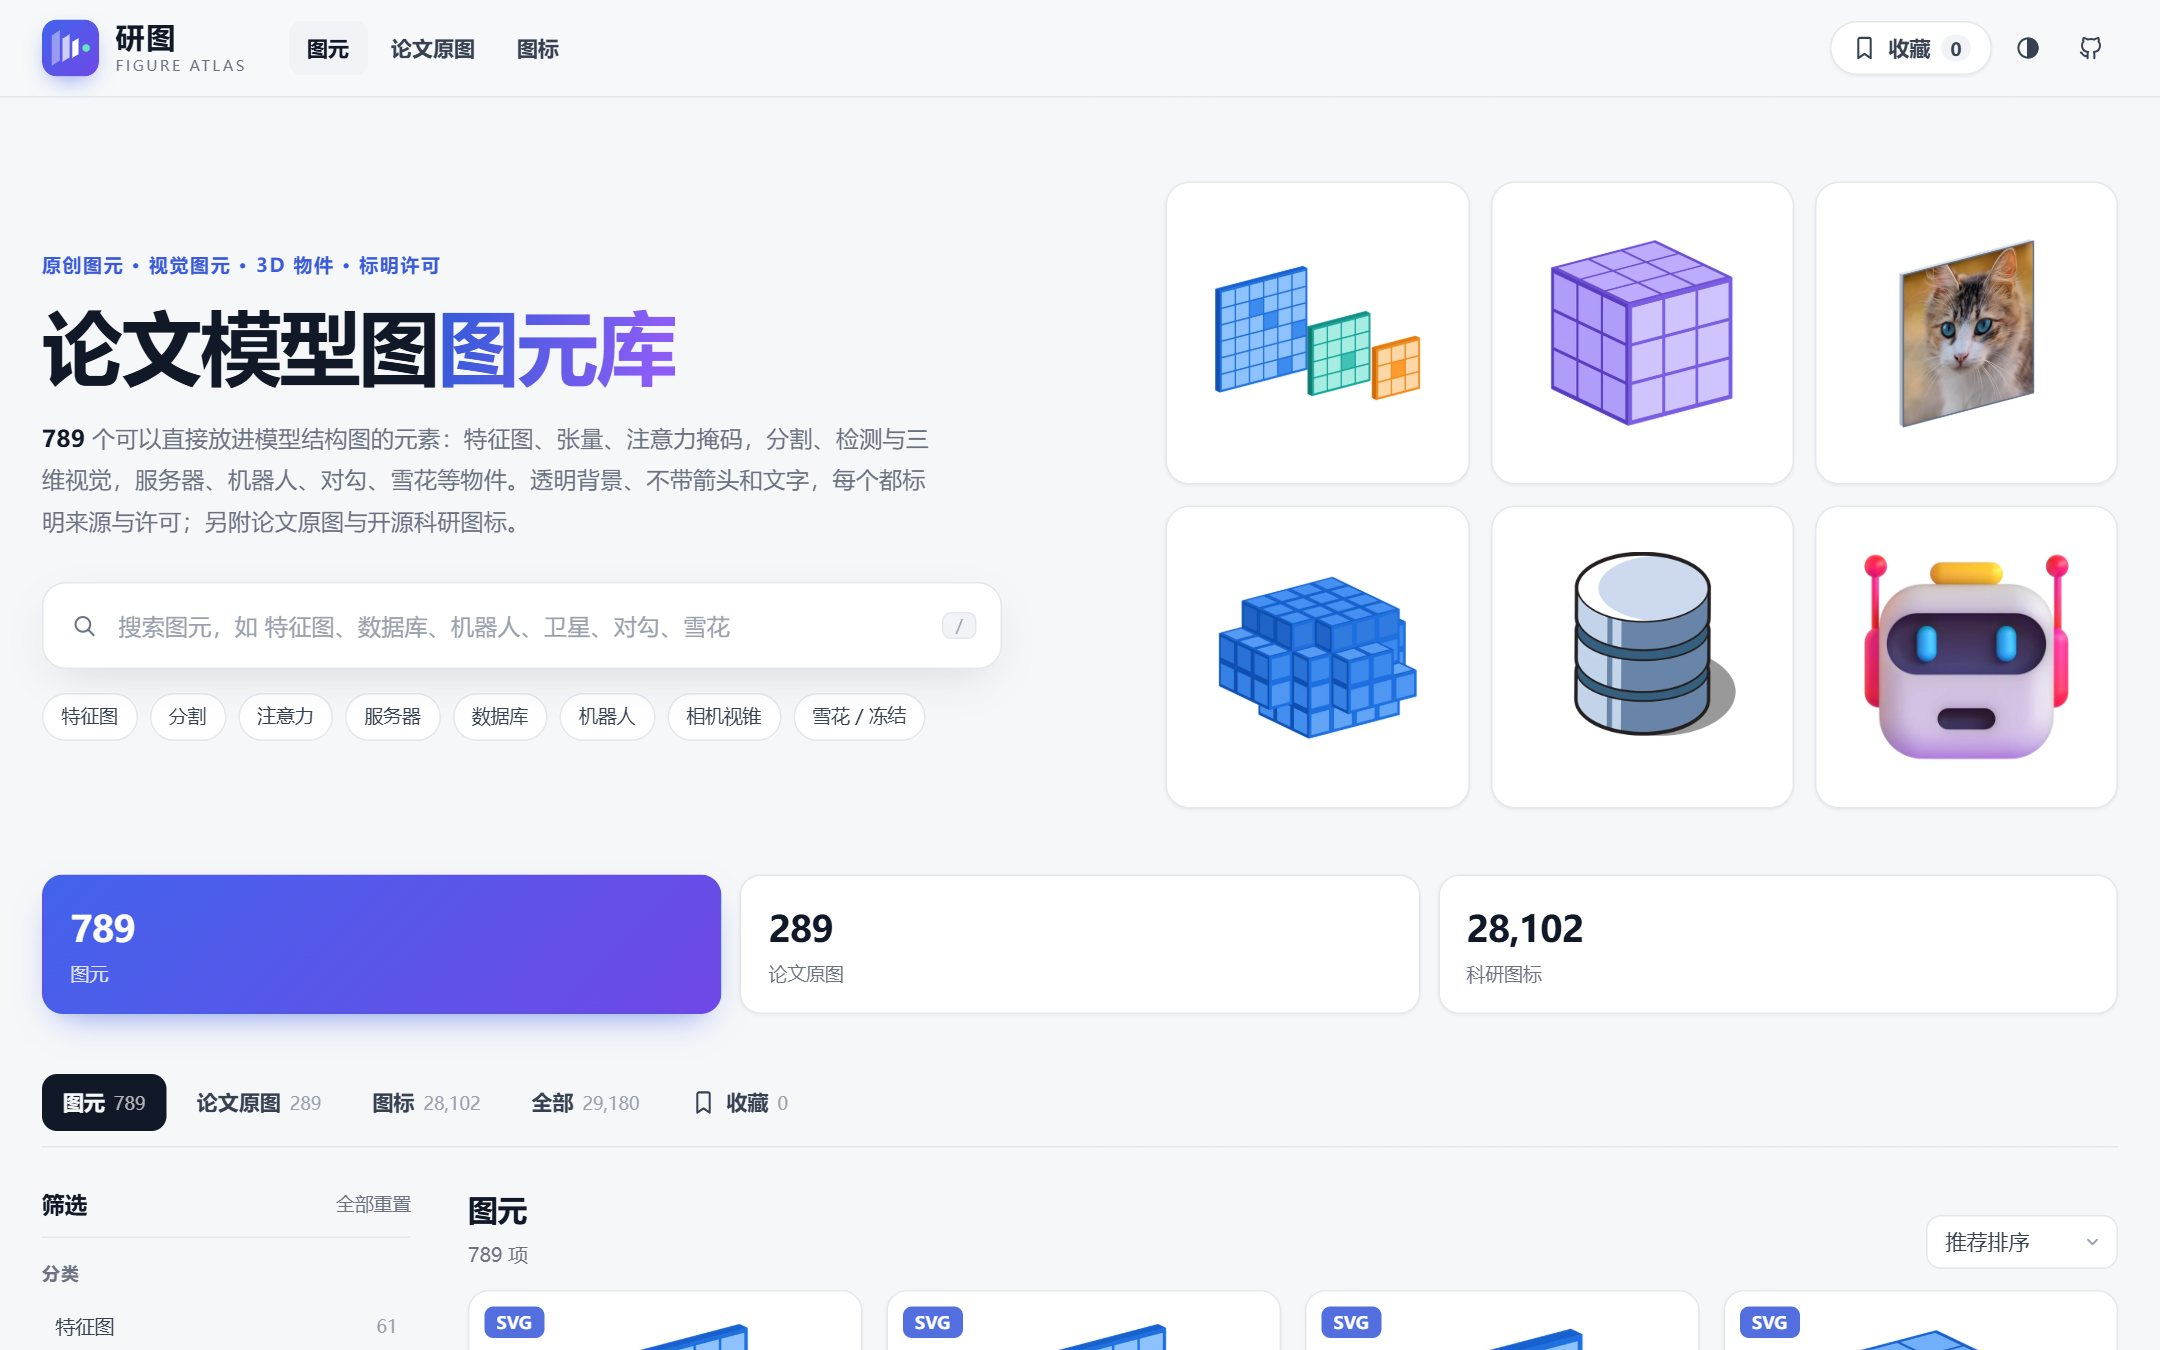
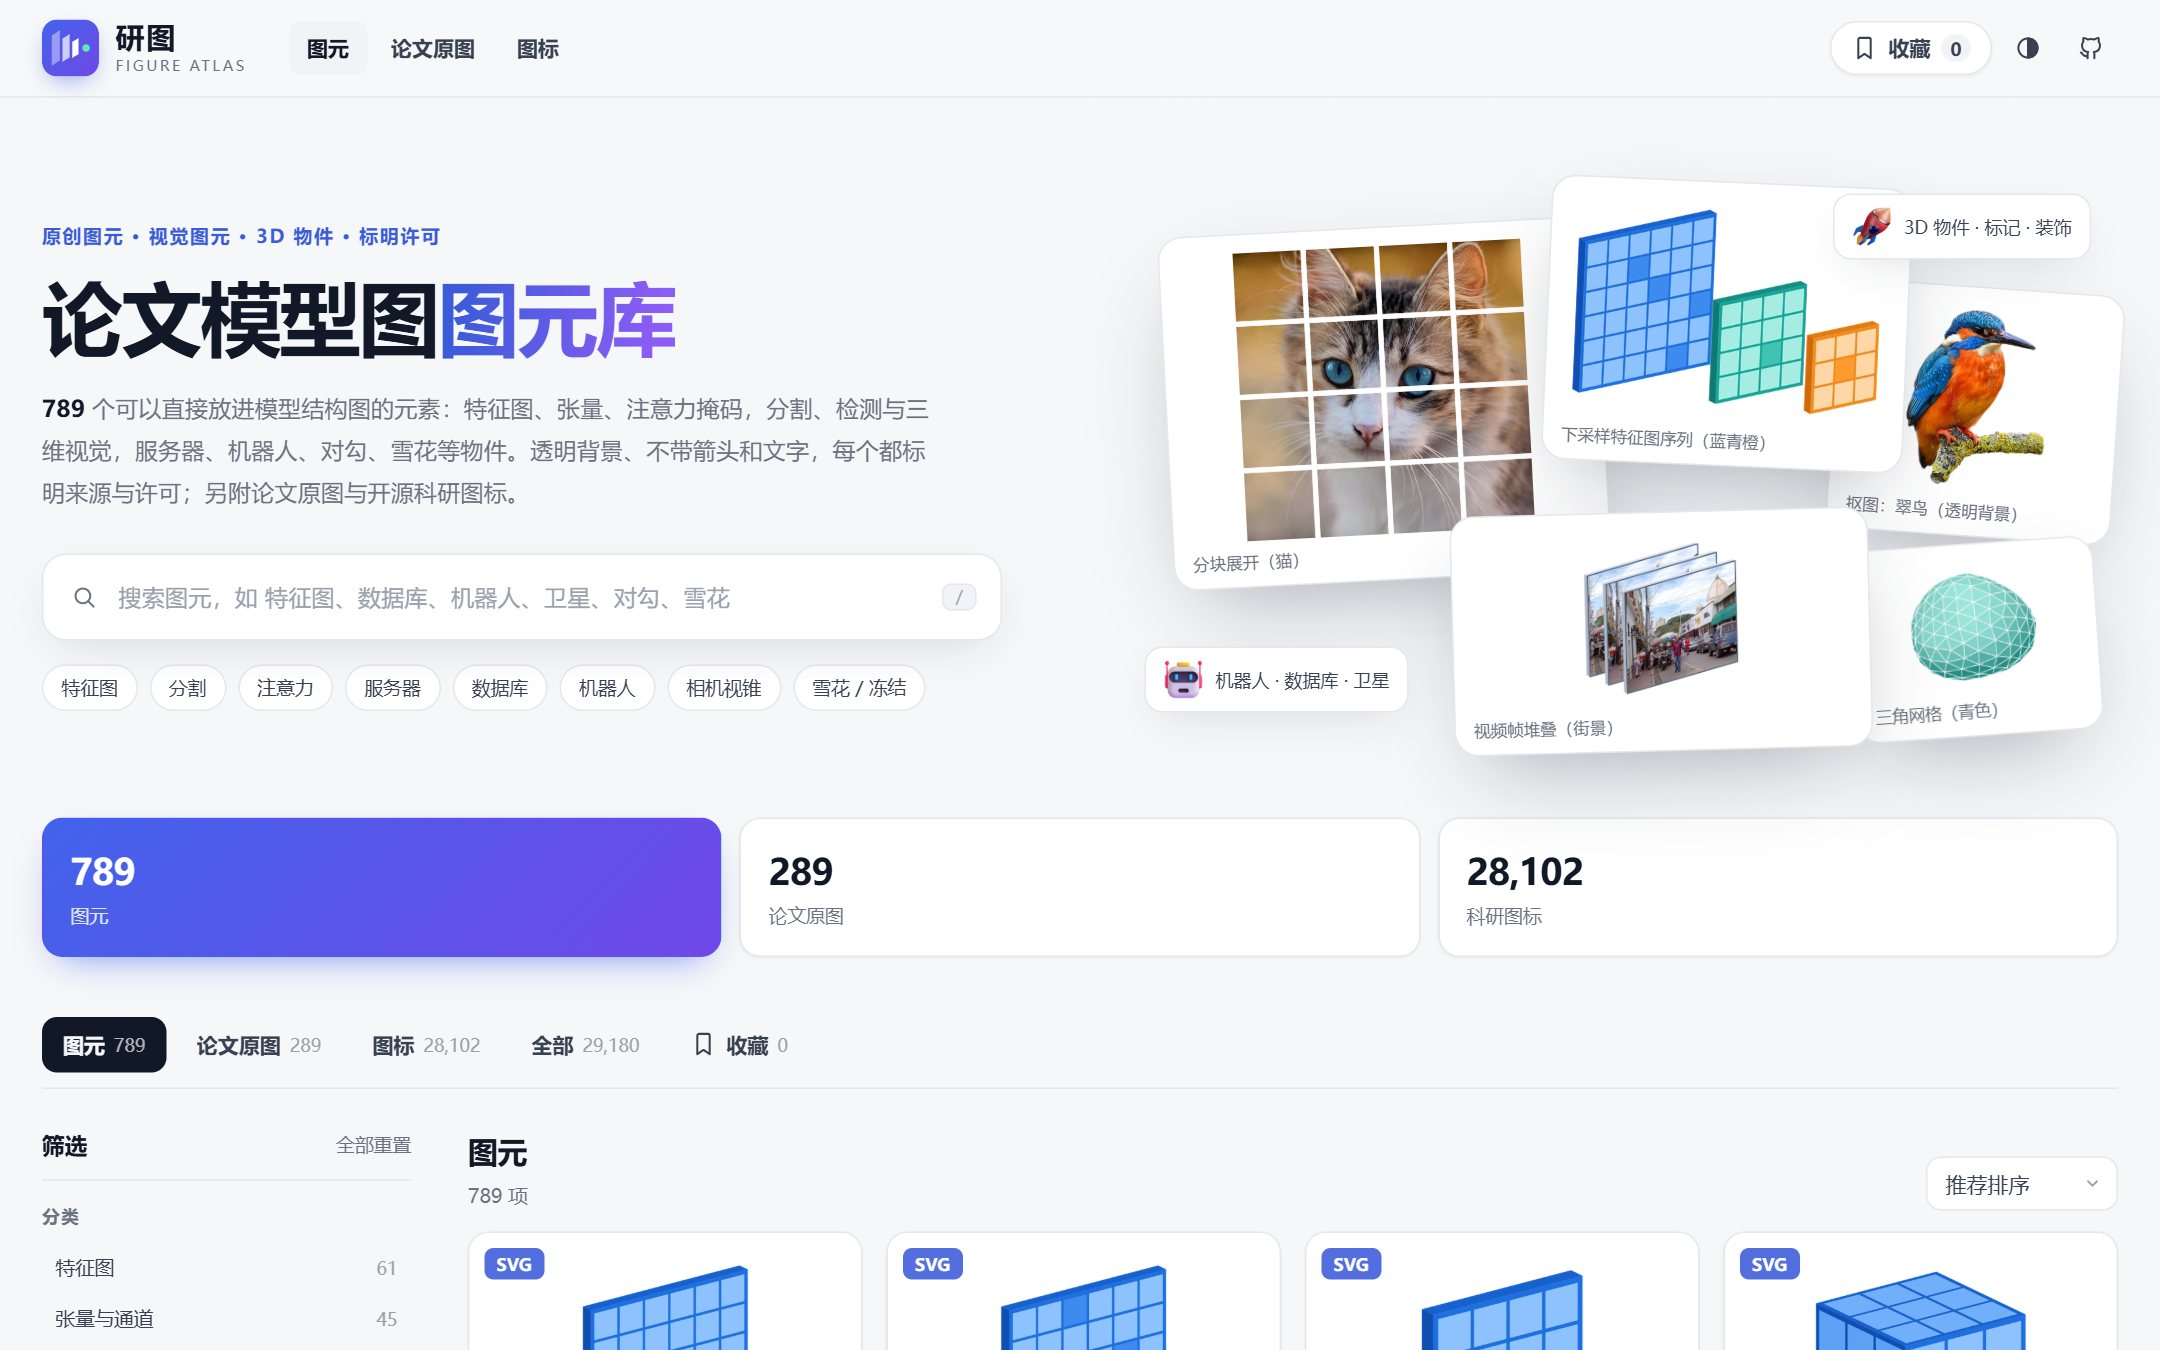
Bring back the hero collage with better pictures
The tilted collage returns. Its tiles now show patches of a cat photo,
a feature-map sequence, a kingfisher cut-out, stacked street frames and
a triangle mesh; tiles and chips open the element's detail view. In the
single-column layout the collage is capped at 640 px so it does not
stretch across the page.

diff --git a/dist/style.css b/dist/style.css
@@ -106,10 +106,20 @@ main { max-width: 1480px; margin: 0 auto; padding: 0 28px; }
 .quick button { padding: 5px 12px; border-radius: 999px; border: 1px solid var(--line); background: var(--surface); color: var(--ink-2); font-size: 12.5px; }
 .quick button:hover { border-color: var(--accent); color: var(--accent); }
 
-.hero-art { display: grid; grid-template-columns: repeat(3, minmax(0, 1fr)); gap: 14px; }
-.hero-art .tile { position: relative; aspect-ratio: 1; border-radius: 16px; background: var(--artboard); border: 1px solid var(--line); box-shadow: var(--shadow-sm); overflow: hidden; transition: transform .2s ease, box-shadow .2s ease, border-color .2s ease; }
-.hero-art .tile img { position: absolute; inset: 14%; width: 72%; height: 72%; object-fit: contain; }
-.hero-art .tile:hover { transform: translateY(-3px); box-shadow: var(--shadow); border-color: color-mix(in srgb, var(--accent) 40%, var(--line)); }
+.hero-art { position: relative; height: 380px; }
+.hero-art .tile { position: absolute; display: block; text-align: left; border-radius: 16px; background: var(--artboard); border: 1px solid var(--line); box-shadow: var(--shadow-lg); padding: 12px 12px 30px; overflow: hidden; transition: transform .4s ease; }
+.hero-art .tile img { width: 100%; height: 100%; object-fit: contain; }
+.hero-art .tile span { position: absolute; left: 12px; right: 12px; bottom: 8px; font-size: 11px; color: #6b7280; white-space: nowrap; overflow: hidden; text-overflow: ellipsis; }
+.hero-art .tile:hover { transform: translateY(-4px) rotate(0deg) !important; z-index: 5; }
+.hero-art .t1 { left: 0; top: 30px; width: 46%; height: 62%; transform: rotate(-3deg); }
+.hero-art .t2 { left: 40%; top: 0; width: 38%; height: 50%; transform: rotate(2.5deg); z-index: 2; }
+.hero-art .t3 { right: 0; top: 70px; width: 30%; height: 44%; transform: rotate(4deg); }
+.hero-art .t4 { left: 30%; bottom: 0; width: 44%; height: 42%; transform: rotate(-1.5deg); z-index: 3; }
+.hero-art .t5 { right: 2%; bottom: 10px; width: 26%; height: 34%; transform: rotate(-4deg); z-index: 1; }
+.hero-art .chip { position: absolute; display: flex; align-items: center; gap: 8px; padding: 8px 12px; border-radius: 12px; background: var(--surface); border: 1px solid var(--line); box-shadow: var(--shadow); font-size: 12px; color: var(--ink-2); z-index: 6; }
+.hero-art .chip img { width: 26px; height: 26px; }
+.hero-art .c1 { left: -14px; bottom: 26px; }
+.hero-art .c2 { right: 18px; top: 8px; }
 
 /* ---------------------------------------------------------------- stats & tabs */
 .stats { display: grid; grid-template-columns: repeat(3, minmax(0, 1fr)); gap: 12px; margin: 8px 0 30px; }
@@ -285,7 +295,7 @@ button.stat:hover { border-color: color-mix(in srgb, var(--accent) 50%, var(--li
 /* ---------------------------------------------------------------- responsive */
 @media (max-width: 1100px) {
   .hero { grid-template-columns: 1fr; padding-top: 36px; }
-  .hero-art { max-width: 560px; }
+  .hero-art { height: 320px; width: 100%; max-width: 640px; margin: 0 auto; }
 }
 @media (max-width: 900px) {
   .topnav { display: none; }

diff --git a/dist/app.js b/dist/app.js
@@ -154,11 +154,16 @@ function updateTabCounts() {
 }
 
 function heroArt() {
-  // One tile per kind of element: model parts, vision, 3-D, objects.
-  const picks = ['el-seq-down-1', 'el-tensor-cube-purple', 'cv-iso-cat', 'cv-voxels-blue', 'iso-database', 'f3d-robot'];
-  $('heroArt').innerHTML = picks.map(id => byId.get(id)).filter(Boolean)
-    .map(it => `<button type="button" class="tile" data-open="${esc(it.id)}" title="${esc(it.name)}"><img src="${esc(it.thumb)}" alt="${esc(it.name)}" decoding="async"></button>`)
-    .join('');
+  // A collage of the most photogenic elements: patches, feature maps, a cut-out, frames, a mesh.
+  const tiles = ['cv-patches-cat', 'el-seq-down-1', 'cv-cutout-bird', 'cv-frames-street', 'cv-mesh-teal'];
+  const chips = [['f3d-robot', 'c1', '机器人 · 数据库 · 卫星'], ['3di-rocket-color', 'c2', '3D 物件 · 标记 · 装饰']];
+  $('heroArt').innerHTML = tiles.map(id => byId.get(id)).filter(Boolean)
+    .map((it, i) => `<button type="button" class="tile t${i + 1}" data-open="${esc(it.id)}"><img src="${esc(it.thumb)}" alt="${esc(it.name)}" decoding="async"><span>${esc(it.name)}</span></button>`)
+    .join('')
+    + chips.map(([id, cls, label]) => {
+      const it = byId.get(id);
+      return it ? `<button type="button" class="chip ${cls}" data-open="${esc(it.id)}"><img src="${esc(it.thumb)}" alt="">${esc(label)}</button>` : '';
+    }).join('');
 }
 
 /* ------------------------------------------------------------------ url state */
